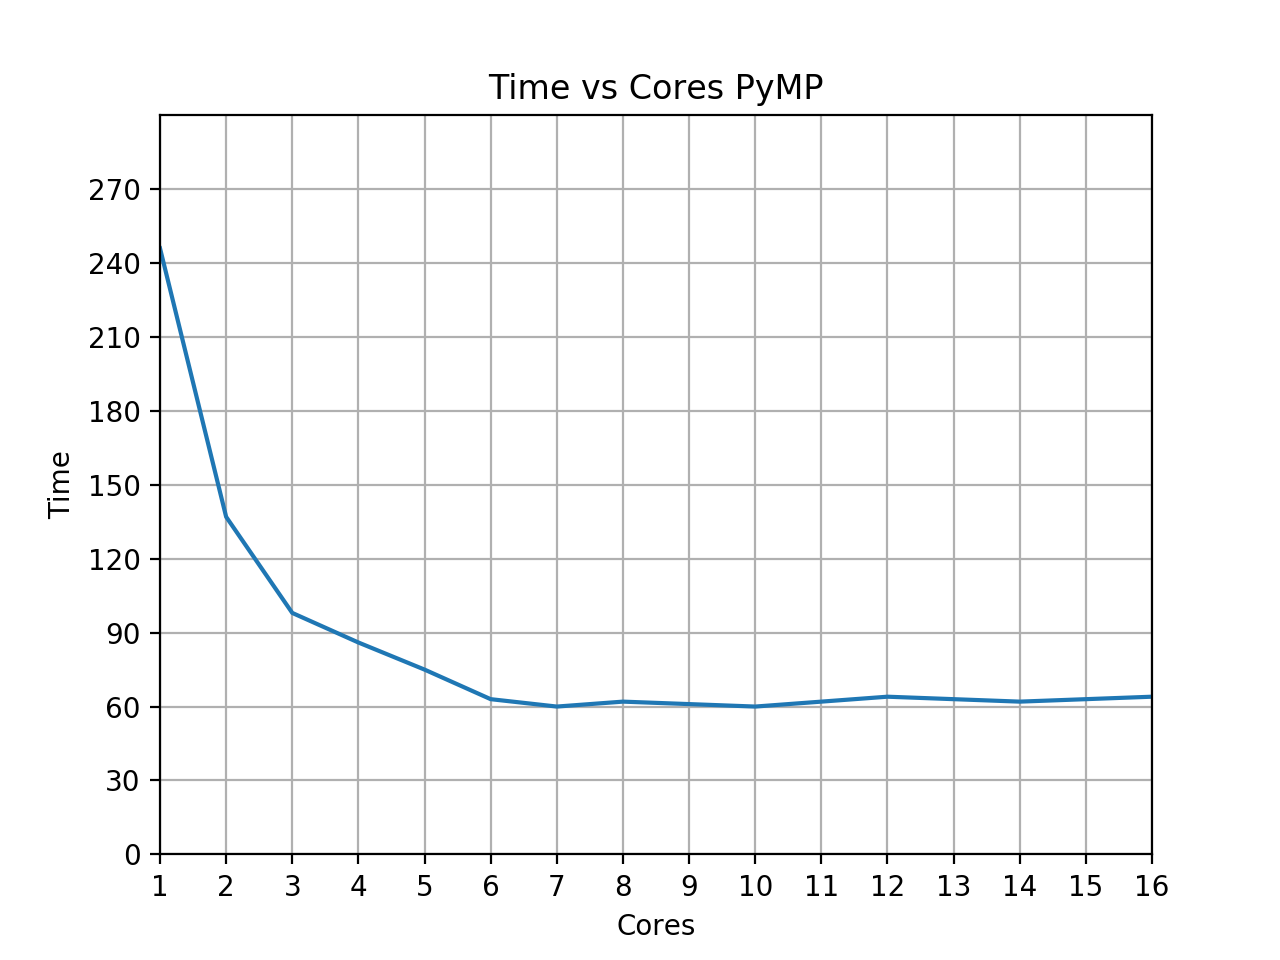
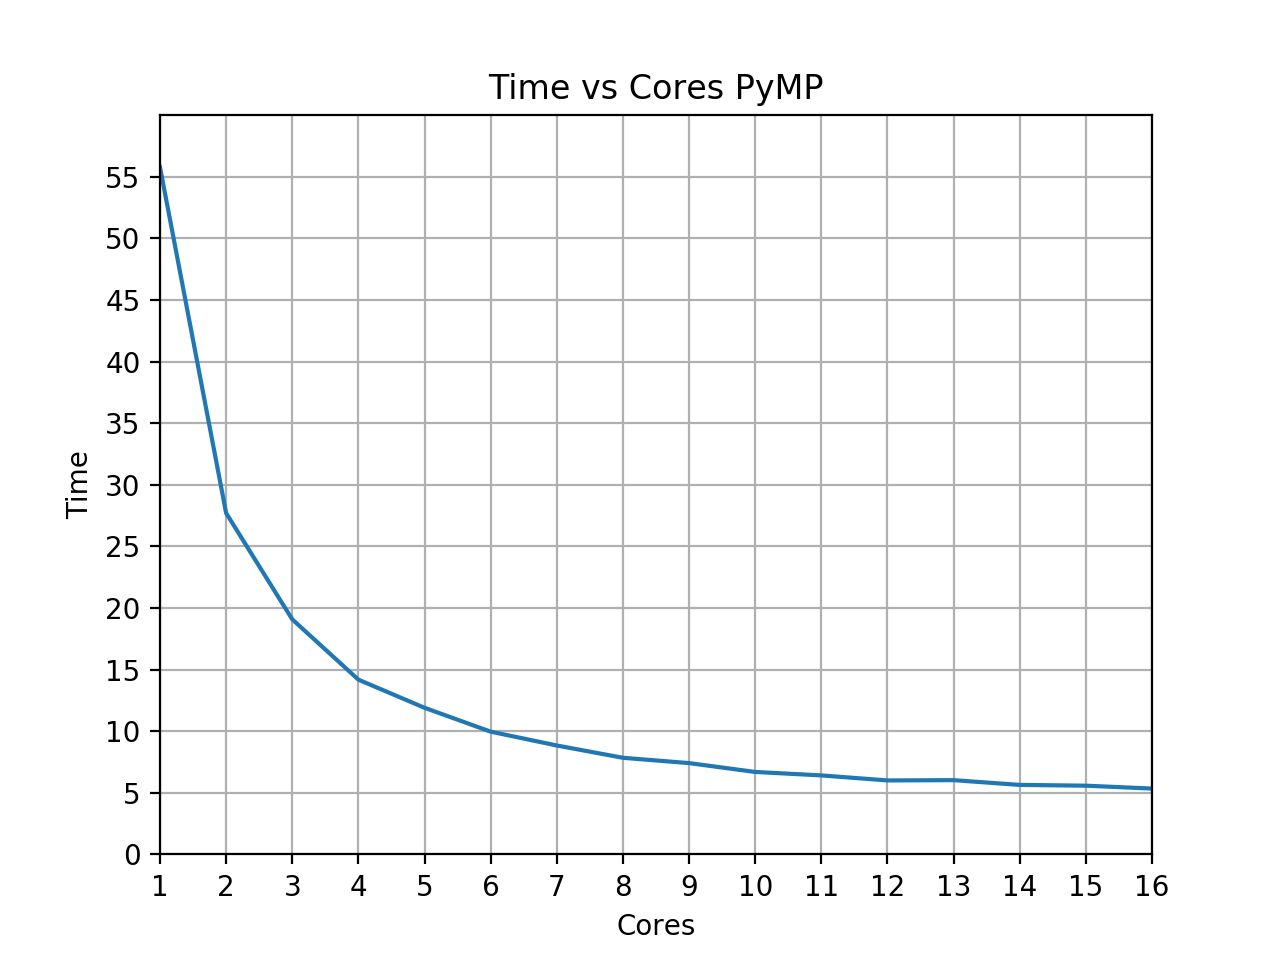
updated graph with runtimes from a cluster

diff --git a/fig/pymp_timings.py b/fig/pymp_timings.py
@@ -14,9 +14,9 @@ print("plot made")
 
 plt.xlabel('Cores')
 ax = df.plot(legend=None)
-ax.set_ylim(0,300)
+ax.set_ylim(0,60)
 ax.set_xticks(range(1,17,1))
-ax.set_yticks(range(0,300,30))
+ax.set_yticks(range(0,60,5))
 ax.set_ylabel('Time')
 ax.set_title('Time vs Cores PyMP')
 ax.grid()

diff --git a/_extras/guide.md b/_extras/guide.md
@@ -212,59 +212,24 @@ parallel.sh:
 
 `#!/bin/bash --login`
 
+`###`
+
 `#SBATCH -n 12                     #Number of processors in our pool`
 
 `#SBATCH -o output.%J              #Job output`
 
 `#SBATCH -t 00:00:05               #Max wall time for entire job`
 
-`module load parallel`
+`###`
 
-`# Define srun arguments:`
+`module load parallel`
 
 `srun="srun -n1 -N1 --exclusive" `
 
-`# --exclusive     ensures srun uses distinct CPUs for each job step`
-
-`# -N1 -n1         allocates a single core to each task`
-
-`# Define parallel arguments:`
-
 `parallel="parallel -N 1 --delay .2 -j $SLURM_NTASKS --joblog parallel_joblog --resume"`
-
-`# -N 1              is number of arguments to pass to each job`
-
-`# --delay .2        prevents overloading the controlling node on short jobs`
-
-`# -j $SLURM_NTASKS  is the number of concurrent tasks parallel runs, so number of CPUs allocated`
-
-`# --joblog name     parallel's log file of tasks it has run`
-
-`# --resume          parallel can use a joblog and this to continue an interrupted run (job resubmitted)`
-
-`# Run the tasks:`
 
 `$parallel "$srun /bin/bash ./runtask.sh arg1:{1}" ::: {1..32}`
 
-`# in this case, we are running a script named runtask, and passing it a single argument`
-
-`# {1} is the first argument`
-
-`# parallel uses ::: to separate options. Here {1..32} is a shell expansion defining the values for`
-
-`#    the first argument, but could be any shell command`
-
-`#`
-
-`# so parallel will run the runtask script for the numbers 1 through 32, with a max of 12 running `
-
-`#    at any one time`
-
-`#`
-
-`# as an example, the first job will be run like this:`
-
-`#    srun -N1 -n1 --exclusive ./runtask arg1:1`
 
 task.sh, the script which will actually be run
 
@@ -294,6 +259,11 @@ sacct will show 32 subjobs.
 
 parallel_joblog shows how long each took to run.
 
+## Summary
+
+* GNU Parallel lets a single Slurm job start multiple subprocesses
+* This helps to use all the CPUs on a node effectively.
+
 # Estimation of Pi on a single core
 
 ## Buffon's Needle
@@ -313,7 +283,7 @@ see python implementation of this
 
 x^2 + y^2 < 1 means inside the circle
 
-## profilers
+## Profilers
 
 write code which works, measure performance, optimise
 
@@ -532,4 +502,9 @@ Show performance graphs
 
 MPI vs PyMP performance, different nodes. Try PyMP as an sbatch job.
 
+## Summary
 
+* "The MPI driver `mpirun` sends compute jobs to a set of allocated computers. It works with Slurm or the system scheduler to do this."
+* "The MPI software then executes these jobs on the remote hosts and synchronizes their state/memory."
+* "MPI assigns a rank to each process, usually the one with a rank of zero does the coordination"
+* "MPI can be used to split a task into components and have several nodes run them."

diff --git a/_episodes/10-mpi.md b/_episodes/10-mpi.md
@@ -1,5 +1,5 @@
 ---
-title: "Bonus session: Distributing computations among computers"
+title: Distributing computations among computers with MPI"
 teaching: 45
 exercises: 10
 questions:
@@ -12,8 +12,8 @@ objectives:
 keypoints:
 - "The MPI driver `mpirun` sends compute jobs to a set of allocated computers."
 - "The MPI software then executes these jobs on the remote hosts and synchronizes their state/memory."
-- "The `print_hostname.py` infers the hostname of the current machine. If run in parallel with `mpirun`, it prints several different host names."
-- "MPI can be used to split the random sampling into components and have several nodes generate random numbers and report back only the pi estimate of this partition."
+- "MPI assigns a rank to each process, usually the one with a rank of zero does the coordination"
+- "MPI can be used to split a task into components and have several nodes run them."
 ---
 
 Lola Lazy is now confident enough to work with the batch system of the cluster. She now turns her attention to the problem at hand, i.e. estimating the value of _Pi_ to very high precision. 

diff --git a/_episodes/06-optimising-for-parallel-processing.md b/_episodes/06-optimising-for-parallel-processing.md
@@ -34,11 +34,13 @@ A crude way to achieve this is to have our job submission script just run multip
 
 command1 &
 command2 &
-command3 &
+command3 
 ~~~
 {: .bash}
 
 This will run command1,2 and 3 simultaneously. It also requests 3 cores with the ntasks option.
+
+When command3 finishes the job will end as backgrounded jobs won't keep the job running. An alternative to this is to put a long sleep command in as the last statement, but we need to get the timing accurate for this. If all the commands finish and the sleep is still running we'll be reserving resources we aren't using.
 
 This method has its limits if we want to run multiple tasks after the first ones have completed. Its possible, but scaling it will be harder.
 

diff --git a/_episodes/09-parallelising-pi.md b/_episodes/09-parallelising-pi.md
@@ -1,5 +1,5 @@
 ---
-title: "Parallel Estimation of Pi for Pedestrians"
+title: "Parallel Estimation of Pi"
 teaching: 30
 exercises: 15
 questions:
